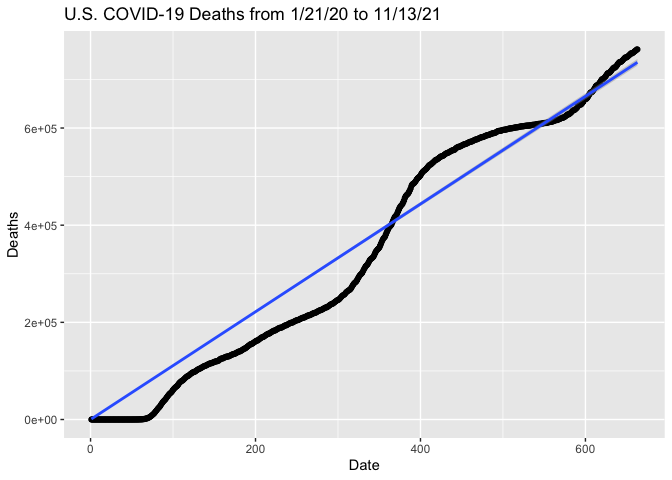
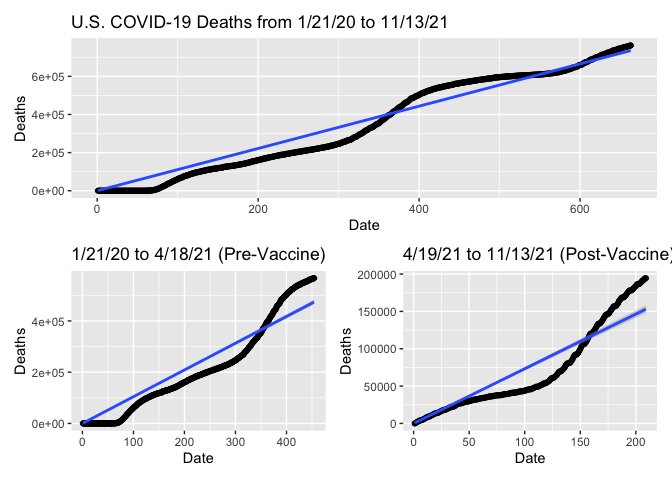
added patchwork for plots

Changed region(s): [[0.0, 0.0, 1.0, 1.0]]

diff --git a/covid_pre_post_vacc.md b/covid_pre_post_vacc.md
@@ -3,6 +3,7 @@ COVID-19 Trends Pre- and Post-Vaccine Wide Availability
 
 ``` r
 library(tidyverse)
+library(patchwork)
 ```
 
 The date 4/19/21 was used as the date when vaccines became available for
@@ -31,33 +32,27 @@ us_covid = read_csv("./data/us.csv") %>%
 
 ``` r
 total_us_case_lm = lm(cases ~ 0 + day, data = us_covid)
-us_covid %>% 
+total_us_case_p = 
+  us_covid %>% 
   ggplot(aes(x = day, y = cases)) +
   geom_point() +
   geom_smooth(method = "lm", formula = y ~ 0 + x) +
   labs(title = "U.S. COVID-19 Cases from 1/21/20 to 11/13/21",
        x = "Date", y = "Cases")
-```
 
-![](covid_pre_post_vacc_files/figure-gfm/unnamed-chunk-2-1.png)<!-- -->
-
-``` r
 pre_vacc_case_lm = 
   us_covid %>% 
   slice(1:454) %>% 
   lm(cases ~ 0 + day, data = .)
-us_covid %>% 
+pre_vacc_case_p = 
+  us_covid %>% 
   slice(1:454) %>% 
   ggplot(aes(x = day, y = cases)) +
   geom_point() +
   geom_smooth(method = "lm", formula = y ~ 0 + x) +
-  labs(title = "U.S. COVID-19 Cases from 1/21/20 to 4/18/21 (Pre-Vaccine)",
+  labs(title = "1/21/20 to 4/18/21 (Pre-Vaccine)",
        x = "Date", y = "Cases")
-```
 
-![](covid_pre_post_vacc_files/figure-gfm/unnamed-chunk-2-2.png)<!-- -->
-
-``` r
 post_vacc_case_lm = 
   us_covid %>% 
   slice(455:663) %>% 
@@ -65,7 +60,7 @@ post_vacc_case_lm =
          new_deaths = deaths - 567314,
          new_day = day - 454) %>%
   lm(new_cases ~ 0 + day, data = .)
-us_covid %>% 
+post_vacc_case_p = us_covid %>% 
   slice(455:663) %>% 
   mutate(new_cases = cases - 31754642,
          new_deaths = deaths - 567314,
@@ -73,43 +68,38 @@ us_covid %>%
   ggplot(aes(x = new_day, y = new_cases)) +
   geom_point() +
   geom_smooth(method = "lm", formula = y ~ 0 + x) +
-  labs(title = "U.S. COVID-19 Cases from 4/19/21 to 11/13/21 (Post-Vaccine)",
+  labs(title = "4/19/21 to 11/13/21 (Post-Vaccine)",
        x = "Date", y = "Cases")
+
+total_us_case_p / (pre_vacc_case_p + post_vacc_case_p)
 ```
 
-![](covid_pre_post_vacc_files/figure-gfm/unnamed-chunk-2-3.png)<!-- -->
+![](covid_pre_post_vacc_files/figure-gfm/unnamed-chunk-2-1.png)<!-- -->
 
 ## Deaths
 
 ``` r
 total_us_death_lm = lm(deaths ~ 0 + day, data = us_covid)
-us_covid %>% 
+total_us_death_p = us_covid %>% 
   ggplot(aes(x = day, y = deaths)) +
   geom_point() +
   geom_smooth(method = "lm", formula = y ~ 0 + x) +
   labs(title = "U.S. COVID-19 Deaths from 1/21/20 to 11/13/21",
        x = "Date", y = "Deaths")
-```
 
-![](covid_pre_post_vacc_files/figure-gfm/unnamed-chunk-3-1.png)<!-- -->
-
-``` r
 pre_vacc_death_lm = 
   us_covid %>% 
   slice(1:454) %>% 
   lm(deaths ~ 0 + day, data = .)
-us_covid %>% 
+pre_vacc_death_p = 
+  us_covid %>% 
   slice(1:454) %>% 
   ggplot(aes(x = day, y = deaths)) +
   geom_point() +
   geom_smooth(method = "lm", formula = y ~ 0 + x) +
-  labs(title = "U.S. COVID-19 Deaths from 1/21/20 to 4/18/21 (Pre-Vaccine)",
+  labs(title = "1/21/20 to 4/18/21 (Pre-Vaccine)",
        x = "Date", y = "Deaths")
-```
 
-![](covid_pre_post_vacc_files/figure-gfm/unnamed-chunk-3-2.png)<!-- -->
-
-``` r
 post_vacc_death_lm = 
   us_covid %>% 
   slice(455:663) %>% 
@@ -117,7 +107,8 @@ post_vacc_death_lm =
          new_deaths = deaths - 567314,
          new_day = day - 454) %>%
   lm(new_deaths ~ 0 + day, data = .)
-us_covid %>% 
+post_vacc_death_p = 
+  us_covid %>% 
   slice(455:663) %>% 
   mutate(new_cases = cases - 31754642,
          new_deaths = deaths - 567314,
@@ -125,11 +116,13 @@ us_covid %>%
   ggplot(aes(x = new_day, y = new_deaths)) +
   geom_point() +
   geom_smooth(method = "lm", formula = y ~ 0 + x) +
-  labs(title = "U.S. COVID-19 Deaths from 4/19/21 to 11/13/21 (Post-Vaccine)",
+  labs(title = "4/19/21 to 11/13/21 (Post-Vaccine)",
        x = "Date", y = "Deaths")
+
+total_us_death_p / (pre_vacc_death_p + post_vacc_death_p)
 ```
 
-![](covid_pre_post_vacc_files/figure-gfm/unnamed-chunk-3-3.png)<!-- -->
+![](covid_pre_post_vacc_files/figure-gfm/unnamed-chunk-3-1.png)<!-- -->
 
 ## Slopes
 
@@ -170,33 +163,27 @@ us_covid = read_csv("./data/us.csv") %>%
 
 ``` r
 total_us_case_lm = lm(cases ~ day, data = us_covid)
-us_covid %>% 
+total_us_case_p = 
+  us_covid %>% 
   ggplot(aes(x = day, y = cases)) +
   geom_point() +
   geom_smooth(method = "lm", formula = y ~ x) +
   labs(title = "U.S. COVID-19 Cases from 1/21/20 to 11/13/21",
        x = "Date", y = "Cases")
-```
 
-![](covid_pre_post_vacc_files/figure-gfm/unnamed-chunk-5-1.png)<!-- -->
-
-``` r
 pre_vacc_case_lm = 
   us_covid %>% 
   slice(1:454) %>% 
   lm(cases ~ day, data = .)
-us_covid %>% 
+pre_vacc_case_p = 
+  us_covid %>% 
   slice(1:454) %>% 
   ggplot(aes(x = day, y = cases)) +
   geom_point() +
   geom_smooth(method = "lm", formula = y ~ x) +
-  labs(title = "U.S. COVID-19 Cases from 1/21/20 to 4/18/21 (Pre-Vaccine)",
+  labs(title = "1/21/20 to 4/18/21 (Pre-Vaccine)",
        x = "Date", y = "Cases")
-```
 
-![](covid_pre_post_vacc_files/figure-gfm/unnamed-chunk-5-2.png)<!-- -->
-
-``` r
 post_vacc_case_lm = 
   us_covid %>% 
   slice(455:663) %>% 
@@ -204,7 +191,8 @@ post_vacc_case_lm =
          new_deaths = deaths - 567314,
          new_day = day - 454) %>%
   lm(new_cases ~ day, data = .)
-us_covid %>% 
+post_vacc_case_p = 
+  us_covid %>% 
   slice(455:663) %>% 
   mutate(new_cases = cases - 31754642,
          new_deaths = deaths - 567314,
@@ -212,43 +200,39 @@ us_covid %>%
   ggplot(aes(x = new_day, y = new_cases)) +
   geom_point() +
   geom_smooth(method = "lm", formula = y ~ x) +
-  labs(title = "U.S. COVID-19 Cases from 4/19/21 to 11/13/21 (Post-Vaccine)",
+  labs(title = "4/19/21 to 11/13/21 (Post-Vaccine)",
        x = "Date", y = "Cases")
+
+total_us_case_p / (pre_vacc_case_p + post_vacc_case_p)
 ```
 
-![](covid_pre_post_vacc_files/figure-gfm/unnamed-chunk-5-3.png)<!-- -->
+![](covid_pre_post_vacc_files/figure-gfm/unnamed-chunk-5-1.png)<!-- -->
 
 ## Deaths
 
 ``` r
 total_us_death_lm = lm(deaths ~ day, data = us_covid)
-us_covid %>% 
+total_us_death_p = 
+  us_covid %>% 
   ggplot(aes(x = day, y = deaths)) +
   geom_point() +
   geom_smooth(method = "lm", formula = y ~ x) +
   labs(title = "U.S. COVID-19 Deaths from 1/21/20 to 11/13/21",
        x = "Date", y = "Deaths")
-```
 
-![](covid_pre_post_vacc_files/figure-gfm/unnamed-chunk-6-1.png)<!-- -->
-
-``` r
 pre_vacc_death_lm = 
   us_covid %>% 
   slice(1:454) %>% 
   lm(deaths ~ day, data = .)
-us_covid %>% 
+pre_vacc_death_p = 
+  us_covid %>% 
   slice(1:454) %>% 
   ggplot(aes(x = day, y = deaths)) +
   geom_point() +
   geom_smooth(method = "lm", formula = y ~ x) +
-  labs(title = "U.S. COVID-19 Deaths from 1/21/20 to 4/18/21 (Pre-Vaccine)",
+  labs(title = "1/21/20 to 4/18/21 (Pre-Vaccine)",
        x = "Date", y = "Deaths")
-```
 
-![](covid_pre_post_vacc_files/figure-gfm/unnamed-chunk-6-2.png)<!-- -->
-
-``` r
 post_vacc_death_lm = 
   us_covid %>% 
   slice(455:663) %>% 
@@ -256,7 +240,8 @@ post_vacc_death_lm =
          new_deaths = deaths - 567314,
          new_day = day - 454) %>%
   lm(new_deaths ~ day, data = .)
-us_covid %>% 
+post_vacc_death_p = 
+  us_covid %>% 
   slice(455:663) %>% 
   mutate(new_cases = cases - 31754642,
          new_deaths = deaths - 567314,
@@ -264,11 +249,13 @@ us_covid %>%
   ggplot(aes(x = new_day, y = new_deaths)) +
   geom_point() +
   geom_smooth(method = "lm", formula = y ~ x) +
-  labs(title = "U.S. COVID-19 Deaths from 4/19/21 to 11/13/21 (Post-Vaccine)",
+  labs(title = "4/19/21 to 11/13/21 (Post-Vaccine)",
        x = "Date", y = "Deaths")
+
+total_us_death_p / (pre_vacc_death_p + post_vacc_death_p)
 ```
 
-![](covid_pre_post_vacc_files/figure-gfm/unnamed-chunk-6-3.png)<!-- -->
+![](covid_pre_post_vacc_files/figure-gfm/unnamed-chunk-6-1.png)<!-- -->
 
 ## Slopes
 
